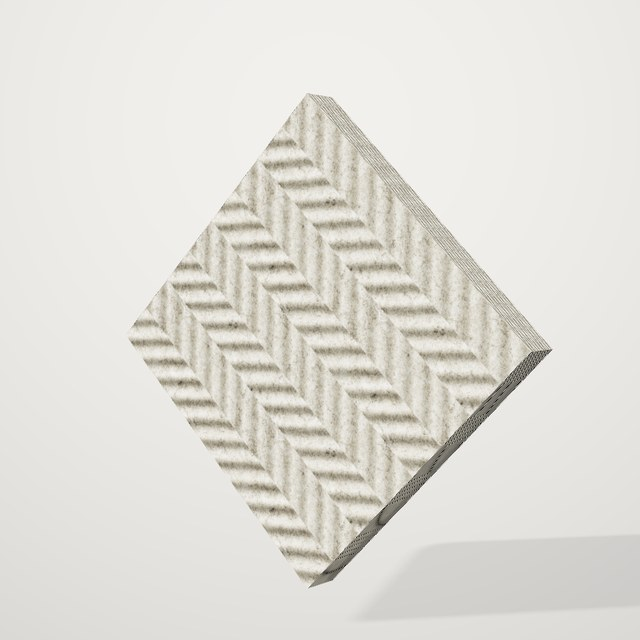
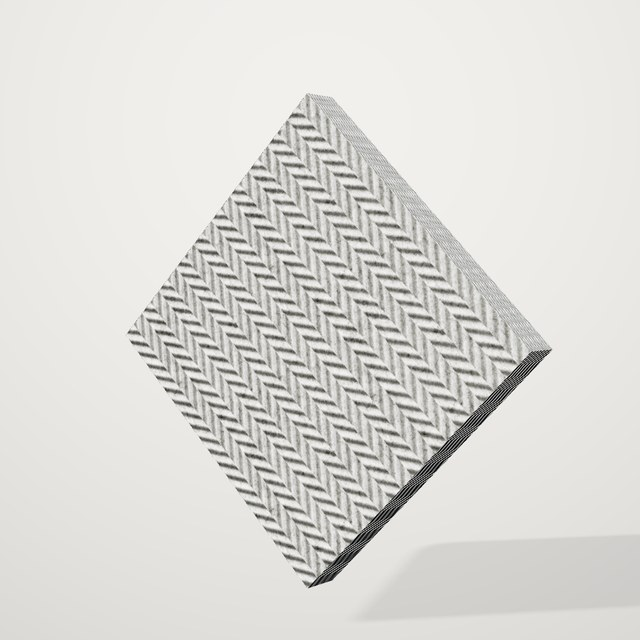
Innovation swatch sample v2: looks corrected against the companies' photos (colour, pattern, form)
Claude-Session: https://claude.ai/code/session_01YFvucCqTvwh6awTBUuF54v

Changed region(s): [[0.1875, 0.125, 0.875, 0.9375]]

diff --git a/spheres/render/inn_swatches.py b/spheres/render/inn_swatches.py
@@ -13,56 +13,57 @@ def run(*a):
 
 # base scans made with prep.py (texture, options)
 BASES = {
- 'pulp-cream': ('fabric043', {'rough': 1, 'rough_var': .05, 'hue_to': [226, 214, 188]}),
- 'myco-grey': ('fabric043', {'rough': 1, 'rough_var': .05, 'hue_to': [168, 163, 154]}),
+ 'pulp-grey': ('fabric043', {'rough': 1, 'rough_var': .05, 'hue_to': [204, 204, 200]}),
+ 'myco-midgrey': ('plaster002', {'rough': .9, 'rough_var': .05, 'hue_to': [138, 138, 135]}),
  'bamboo-honey': ('wood017', {'rough': .6, 'rough_var': .15, 'hue_to': [212, 172, 112]}),
- 'hemp-dark': ('wood026', {'rough': .55, 'rough_var': .2, 'hue_to': [112, 80, 52]}),
- 'glass-terrazzo': ('terrazzo010', {'rough': .12, 'rough_var': .05}),
- 'hemp-weave': ('fabric036', {'rough': .95, 'rough_var': .05, 'hue_to': [188, 172, 138]}),
- 'mylo-grain': ('leather030', {'rough': .7, 'rough_var': .1, 'hue_to': [104, 78, 58]}),
+ 'hemp-streaks': ('wood022', {'rough': .55, 'rough_var': .2, 'hue_to': [186, 166, 134]}),
+ 'glass-marble': ('marble012', {'rough': .04, 'rough_var': .02, 'hue_to': [38, 104, 108]}),
+ 'felt-darkgrey': ('fabric034', {'rough': 1, 'rough_var': .03, 'hue_to': [84, 85, 88]}),
+ 'pina-gold': ('fabric043', {'rough': .35, 'rough_var': .15, 'hue_to': [200, 160, 70]}),
+ 'mylo-camel': ('leather028', {'rough': .85, 'rough_var': .05, 'hue_to': [196, 152, 98]}),
+ 'paper-white': ('paper003', {'rough': .55, 'rough_var': .05, 'hue_to': [226, 222, 212]}),
+ 'roving-cream': ('carpet013', {'rough': 1, 'rough_var': .03, 'hue_to': [232, 222, 198]}),
+ 'myco-white': ('sponge001', {'rough': 1, 'rough_var': .05, 'hue_to': [240, 236, 224]}),
 }
 RIGID = lambda mm: {'stiff': 1, 'thickMM': mm}
 SOFT = lambda st, shape=None, sag=None: {'stiff': st, **({'shape': shape} if shape is not None else {}), **({'sag': sag} if sag is not None else {})}
 
 # code: (label, generator or src, generator opts, tiles, render params)
 INN = {
- # moulded pulp acoustic panel with chevron relief, wheat-tinted natural pulp
- 'INN-0028': ('Baux acoustic pulp', ('relief', {'base': 'pulp-cream', 'pattern': 'chevron', 'rows': 2, 'lines': 3, 'amp': 1.4, 'depth': .9, 'ao': .18}), 1.5,
-              {**RIGID(25), 'bumpScale': 6, 'roughness': 1}),
- # mycelium grown on agricultural residue, grey modular acoustic tile with ribs
- 'INN-0195': ('Mogu mycelium acoustic panels', ('relief', {'base': 'myco-grey', 'pattern': 'ribs', 'rows': 1, 'lines': 6, 'depth': .85, 'ao': .2}), .75,
-              {**RIGID(30), 'bumpScale': 7, 'sheen': .4, 'sheenColor': '#d8d4cc'}),
- # recycled textile fibres re-milled into a nonwoven board: grey base with multicolour fibre flecks
- 'INN-0172': ('Kvadrat Really recycled textiles', ('flecks', {'base': [142, 142, 146], 'n': 5000, 'size': .0045, 'fibre': 5, 'rough': .9,
-              'colors': [[60, 70, 110, 3], [170, 60, 60, 2], [220, 200, 120, 2], [40, 40, 44, 4], [230, 230, 228, 4], [90, 130, 100, 2]]}), .75,
-              {**RIGID(16), 'bumpScale': 1.2}),
- # recycled glass pressed into a glass-ceramic slab: polished, glass fragments in a pale matrix
- 'INN-0182': ('Magna Glaskeramik', ('src', 'glass-terrazzo'), .5, {**RIGID(20), 'bumpScale': .1, 'clearcoat': 1, 'clearcoatRoughness': .05, 'env': 'soft'}),
- # recycled HIPS from white goods: white sheet with grey and black flecks
- 'INN-0274': ('Smile Plastics Heron', ('flecks', {'base': [236, 236, 232], 'n': 2500, 'size': .006, 'fibre': 1, 'rough': .3,
-              'colors': [[30, 30, 32, 5], [120, 120, 122, 3], [180, 180, 178, 2]]}), .75, {**RIGID(12), 'bumpScale': .3, 'clearcoat': .5, 'clearcoatRoughness': .15}),
- # compressed hemp fibre "wood": dark, dense, striated
- 'INN-0146': ('HempWood flooring', ('src', 'hemp-dark'), .25, {**RIGID(16), 'bumpScale': .8, 'clearcoat': .3, 'clearcoatRoughness': .25}),
- # bamboo plywood: vertical bamboo strips with nodes, layered edge
- 'INN-0245': ('Plyboo bamboo panels', ('strips', {'base': 'bamboo-honey', 'strips': 7, 'nodes': 1, 'var': .14}), .75,
+ # light grey moulded pulp acoustic panel, fine dense chevron relief
+ 'INN-0028': ('Baux acoustic pulp', ('relief', {'base': 'pulp-grey', 'pattern': 'chevron', 'rows': 5, 'lines': 2, 'amp': 1.2, 'depth': .9, 'ao': .22}), 1.5,
+              {**RIGID(25), 'bumpScale': 5, 'roughness': 1}),
+ # mid-grey mycelium tile, fine smooth-topped diagonal ribs
+ 'INN-0195': ('Mogu mycelium acoustic panels', ('relief', {'base': 'myco-midgrey', 'pattern': 'ribs', 'rows': 1, 'lines': 7, 'depth': .9, 'ao': .25}), .75,
+              {**RIGID(30), 'bumpScale': 7}),
+ # recycled textile nonwoven board: dark grey heathered felt
+ 'INN-0172': ('Kvadrat Really recycled textiles', ('src', 'felt-darkgrey'), 1.0, {**RIGID(12), 'bumpScale': .6, 'sheen': .5, 'sheenColor': '#9a9aa0'}),
+ # recycled glass-ceramic: glossy, coloured glass with molten marbling
+ 'INN-0182': ('Magna Glaskeramik', ('src', 'glass-marble'), .35, {**RIGID(20), 'bumpScale': .05, 'clearcoat': 1, 'clearcoatRoughness': .03, 'env': 'soft'}),
+ # recycled HIPS: light grey with grey flecks and a few coarse chips, matte
+ 'INN-0274': ('Smile Plastics Heron', ('flecks', {'base': [222, 222, 220], 'n': 3200, 'size': .005, 'fibre': 1, 'rough': .6,
+              'colors': [[120, 120, 122, 4], [160, 160, 160, 3], [70, 70, 72, 1], [245, 245, 242, 2]]}), .75, {**RIGID(12), 'bumpScale': .4}),
+ # compressed hemp fibre: pale tan, long fibrous streaks
+ 'INN-0146': ('HempWood', ('src', 'hemp-streaks'), .3, {**RIGID(16), 'bumpScale': 1.2, 'clearcoat': .2, 'clearcoatRoughness': .35}),
+ # bamboo panels: edge-grain strips, honey and caramelised tones, nodes
+ 'INN-0245': ('Plyboo bamboo panels', ('strips', {'base': 'bamboo-honey', 'strips': 9, 'nodes': 1, 'var': .45}), .75,
               {**RIGID(19), 'bumpScale': .6, 'plies': 5, 'clearcoat': .2, 'clearcoatRoughness': .3}),
- # pineapple-leaf nonwoven, PU coated: crinkled, earthy, leather-like textile
- 'INN-0242': ('Pinatex', ('src', 'pinatex'), .4, {**SOFT(.5, .008, .45), 'bumpScale': 1.8}),
- # mycelium leather: soft, fine grain, warm brown
- 'INN-0202': ('Mylo mushroom leather', ('src', 'mylo-grain'), .35, {**SOFT(.42, .005, .5), 'bumpScale': 1.0, 'sheen': .3, 'sheenColor': '#a08070'}),
- # starch + fibre moulded packaging: smooth beige with fine fibre specks, thin moulded wall
- 'INN-0233': ('PaperFoam', ('flecks', {'base': [222, 208, 178], 'n': 4000, 'size': .0028, 'fibre': 4, 'rough': .75, 'mottle': .08,
-              'colors': [[180, 150, 110, 3], [240, 230, 205, 2], [150, 120, 85, 1]]}), .75, {**RIGID(4), 'bumpScale': 1.2}),
- # wood-particle filled bio-composite packaging: smooth, satin, speckled with wood bits
- 'INN-0286': ('Sulapac', ('flecks', {'base': [218, 202, 172], 'n': 3500, 'size': .0045, 'fibre': 1, 'rough': .35, 'mottle': .05,
-              'colors': [[130, 92, 54, 4], [96, 66, 38, 3], [175, 138, 92, 2]]}), .75, {**RIGID(3), 'bumpScale': .4, 'clearcoat': .4, 'clearcoatRoughness': .2}),
- # mycelium-bound agricultural waste: white fuzzy skin with hemp hurd chips showing
- 'INN-0200': ('Ecovative MycoComposite', ('flecks', {'base': [236, 232, 222], 'n': 900, 'size': .014, 'fibre': 1.3, 'rough': 1, 'mottle': .12,
-              'colors': [[196, 172, 130, 4], [170, 140, 100, 2], [215, 200, 170, 3]]}), .75, {**RIGID(30), 'bumpScale': 3, 'sheen': .8, 'sheenColor': '#ffffff'}),
- # seaweed packaging film: thin, translucent, faintly amber-green, very soft
- 'INN-0216': ('Notpla seaweed film', None, .75, {**SOFT(.03, None, 1), 'noMap': True, 'opacity': .45, 'roughness': .2, 'color': '#c8c08a', 'clearcoat': .6}),
- # hemp / hemp-cotton woven fabric: natural, slubby weave, soft drape
- 'INN-0031': ('Bear Fiber hemp textile', ('src', 'hemp-weave'), .3, {**SOFT(.12, None, .8), 'bumpScale': 2, 'sheen': .3, 'sheenColor': '#e6dcc4'}),
+ # pineapple-leaf nonwoven with metallic gold finish: fibre network, sheen
+ 'INN-0242': ('Pinatex', ('src', 'pina-gold'), .5, {**SOFT(.5, .008, .45), 'bumpScale': 1.4, 'metalness': .55, 'env': 'soft'}),
+ # mycelium leather: smooth camel, suede-like, soft drape
+ 'INN-0202': ('Mylo mushroom leather', ('src', 'mylo-camel'), .5, {**SOFT(.35, .004, .6), 'bumpScale': .35, 'sheen': .8, 'sheenColor': '#e0b888', 'sheenRoughness': .6}),
+ # starch + fibre moulded packaging: warm beige, grainy matte
+ 'INN-0233': ('PaperFoam', ('flecks', {'base': [206, 186, 152], 'n': 7000, 'size': .0028, 'fibre': 1.5, 'rough': .85, 'mottle': .1,
+              'colors': [[176, 150, 112, 4], [226, 210, 180, 3], [150, 124, 90, 1]]}), .75, {**RIGID(4), 'bumpScale': 1.6}),
+ # bio-composite packaging: black with light speckles, satin
+ 'INN-0286': ('Sulapac', ('flecks', {'base': [28, 28, 30], 'n': 4500, 'size': .0035, 'fibre': 1, 'rough': .35, 'mottle': .05,
+              'colors': [[222, 214, 196, 5], [170, 160, 140, 3], [250, 248, 240, 2]]}), .75, {**RIGID(4), 'bumpScale': .35, 'clearcoat': .5, 'clearcoatRoughness': .2}),
+ # mycelium composite: white, porous, rough
+ 'INN-0200': ('Ecovative MycoComposite', ('src', 'myco-white'), .6, {**RIGID(30), 'bumpScale': 3.5, 'sheen': .8, 'sheenColor': '#ffffff'}),
+ # seaweed-coated paperboard packaging: white, satin, semi-stiff
+ 'INN-0216': ('Notpla seaweed coating', ('src', 'paper-white'), .5, {**SOFT(.6, .015, .35), 'bumpScale': .8, 'rotY': -.6, 'clearcoat': .4, 'clearcoatRoughness': .3}),
+ # hemp fibre / tow: thick cream roving, very soft
+ 'INN-0031': ('Bear Fiber hemp fibre', ('src', 'roving-cream'), .35, {**SOFT(.1, None, .85), 'bumpScale': 2.6, 'sheen': .6, 'sheenColor': '#fff6e4', 'sheenRoughness': .6}),
 }
 
 if __name__ == '__main__':
